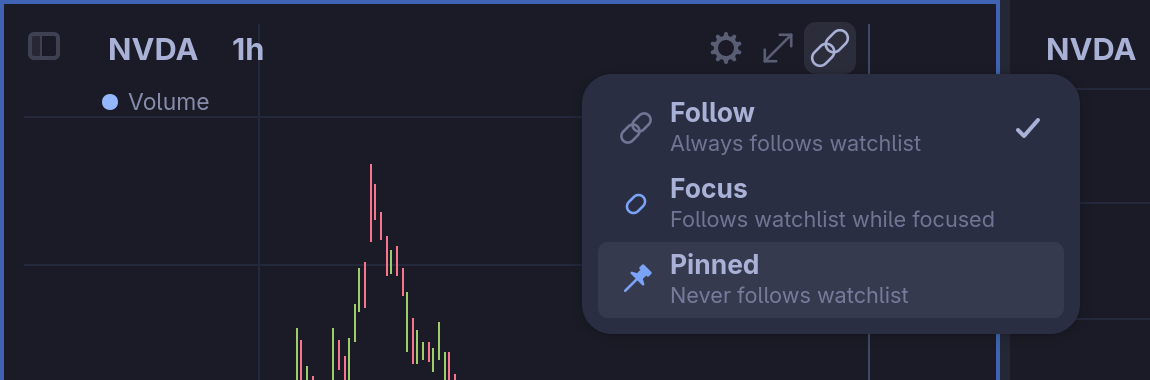
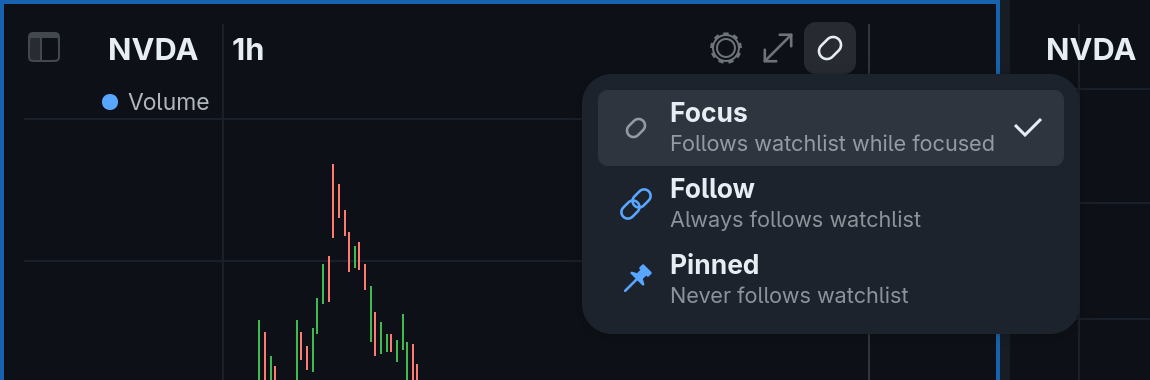
Start new charts on Focus, and offer it first (#91)
A chart now starts as Focus rather than Follow, so splitting a chart and
picking a symbol puts it on the chart in front of you and leaves the other
where it was. Focus comes first in the chain's menu, the chart menu and
the Ctrl+L cycle, and takes over the quiet look the default wears: one
dim link under the pointer, with Follow and Pinned in the accent.

Charts already saved keep the mode they have.

diff --git a/crates/omacharts-engine/src/link.rs b/crates/omacharts-engine/src/link.rs
@@ -1,11 +1,11 @@
 //! Link modes: what a chart does when a symbol is picked in the watchlist.
 //!
-//! The choice belongs on the chart, not on the list. Charts follow the list
-//! out of the box, because the usual reason to split is one symbol at several
-//! resolutions. A chart for comparing tickers has to be able to take the click
-//! only while it is focused, without taking following away from the rest, and
-//! a chart holding context (SPY beside a stock) has to be able to refuse the
-//! click outright.
+//! The choice belongs on the chart, not on the list. Charts take the list's
+//! click only while they are focused out of the box, so splitting a chart and
+//! picking a symbol puts it on the chart in front of you and leaves the other
+//! where it was. One symbol at several resolutions is a choice to make Follow,
+//! which moves those charts together on every click, and a chart holding
+//! context (SPY beside a stock) has to be able to refuse the click outright.
 //!
 //! So each chart has one of three modes, and every list drives the same
 //! charts: the Follow ones, plus the focused chart when it is a Focus chart.
@@ -22,10 +22,10 @@ use crate::theme::Theme;
 pub enum LinkMode {
     /// Takes the rail's click while it is the focused chart. A symbol typed
     /// on it moves only itself.
+    #[default]
     Focus,
     /// Takes every rail click, and a symbol typed on it moves every other
     /// Follow chart.
-    #[default]
     Follow,
     /// Takes nothing from the rail.
     Pinned,
@@ -33,7 +33,7 @@ pub enum LinkMode {
 
 /// Every mode, in the order a picker offers them and Ctrl+L walks them: the
 /// default first.
-pub const MODES: [LinkMode; 3] = [LinkMode::Follow, LinkMode::Focus, LinkMode::Pinned];
+pub const MODES: [LinkMode; 3] = [LinkMode::Focus, LinkMode::Follow, LinkMode::Pinned];
 
 impl LinkMode {
     /// What a chart written down with the nine link groups becomes.
@@ -70,8 +70,8 @@ impl LinkMode {
     /// across four charts.
     pub fn colour(self, theme: &Theme) -> Option<String> {
         match self {
-            LinkMode::Follow => None,
-            LinkMode::Focus | LinkMode::Pinned => Some(theme.ui.accent.clone()),
+            LinkMode::Focus => None,
+            LinkMode::Follow | LinkMode::Pinned => Some(theme.ui.accent.clone()),
         }
     }
 
@@ -183,7 +183,7 @@ mod tests {
         // recoverable in one click; refusing to parse would take the whole
         // layout down with it.
         for json in ["\"sideways\"", "3", "true", "null", "-1", "1.5"] {
-            assert_eq!(serde_json::from_str::<LinkMode>(json).unwrap(), LinkMode::Follow, "{json}");
+            assert_eq!(serde_json::from_str::<LinkMode>(json).unwrap(), LinkMode::Focus, "{json}");
         }
     }
 
@@ -195,9 +195,9 @@ mod tests {
     #[test]
     fn cycling_walks_all_three_and_comes_round_to_the_default() {
         for (from, next) in [
-            (LinkMode::Follow, LinkMode::Focus),
-            (LinkMode::Focus, LinkMode::Pinned),
-            (LinkMode::Pinned, LinkMode::Follow),
+            (LinkMode::Focus, LinkMode::Follow),
+            (LinkMode::Follow, LinkMode::Pinned),
+            (LinkMode::Pinned, LinkMode::Focus),
         ] {
             assert_eq!(from.cycled(false), next, "{from:?}");
             assert_eq!(next.cycled(true), from, "{next:?}");

diff --git a/src/ui/pane.rs b/src/ui/pane.rs
@@ -655,8 +655,8 @@ fn expand_icon(maximized: Rc<Cell<bool>>) -> gtk::DrawingArea {
 }
 
 /// A mode's icon for a row of the mode menu, in the colour the chart's button
-/// takes in that mode: the legend's own, dimmed, for Follow, and the accent for
-/// the other two. So the menu shows what the button will look like.
+/// takes in that mode: the legend's own, dimmed, for the default, Focus, and
+/// the accent for the other two. So the menu shows what the button will look like.
 ///
 /// Coloured from CSS rather than handed a hex, because the popover outlives
 /// any one theme and CSS is what follows a change of it.
@@ -666,8 +666,8 @@ pub(crate) fn menu_mode_icon(mode: LinkMode) -> gtk::DrawingArea {
         Rc::new(Cell::new(mode)),
     );
     area.add_css_class(match mode {
-        LinkMode::Follow => "dim-label",
-        LinkMode::Focus | LinkMode::Pinned => "link-mode-set",
+        LinkMode::Focus => "dim-label",
+        LinkMode::Follow | LinkMode::Pinned => "link-mode-set",
     });
     area
 }
@@ -786,15 +786,15 @@ fn rounded(cr: &gtk::cairo::Context, x: f64, y: f64, w: f64, h: f64, r: f64) {
     cr.close_path();
 }
 
-/// The legend stays out of the way, so a Follow chart's button is nearly
-/// invisible: it is the default, and four faint chains say nothing is going on.
-/// Focus and Pinned are not: a chart that moves only while focused, or never,
+/// The legend stays out of the way, so a Focus chart's button is nearly
+/// invisible: it is the default, and four faint links say nothing is going on.
+/// Follow and Pinned are not: a chart that moves on every click, or on none,
 /// is the state worth being able to see across four charts without looking.
 fn set_link_look(link: &gtk::MenuButton, mode: LinkMode) {
     link.set_tooltip_text(Some(&format!("{} — {}", mode.label(), mode.blurb())));
-    match mode {
-        LinkMode::Follow => link.add_css_class("quiet"),
-        _ => link.remove_css_class("quiet"),
+    match mode == LinkMode::default() {
+        true => link.add_css_class("quiet"),
+        false => link.remove_css_class("quiet"),
     }
 }
 

diff --git a/src/cli/exec.rs b/src/cli/exec.rs
@@ -5309,15 +5309,16 @@ mod tests {
     }
 
     /// A chartbook made from a terminal starts the way one made in the window
-    /// does: its chart on Follow, so picking in the rail moves it.
+    /// does: its chart on Focus, so picking in the rail moves it while it is
+    /// the chart in front of you, and a split beside it is not dragged along.
     #[test]
-    fn a_new_chartbooks_chart_starts_on_follow() {
+    fn a_new_chartbooks_chart_starts_on_focus() {
         let store = bare();
         run("chartbook create Macro --symbol SPY --switch", &store);
 
         let listed = run("chart list --book Macro --json", &store);
         let parsed: serde_json::Value = serde_json::from_str(&listed.out).unwrap();
-        assert_eq!(parsed["charts"][0]["link"], "follow", "{}", listed.out);
+        assert_eq!(parsed["charts"][0]["link"], "focus", "{}", listed.out);
     }
 
     #[test]

diff --git a/src/theming.rs b/src/theming.rs
@@ -422,9 +422,9 @@ pub fn stylesheet(theme: &Theme, scheme: &BarScheme) -> String {
 .legend-symbol:hover { background: alpha(currentColor, 0.12); }
 
 /* The legend sits over the drawing, and the drawing is the point. The gear,
-   and the link while the chart is in Follow (the default, so nothing to
+   and the link while the chart is in Focus (the default, so nothing to
    report), strike the maximize corner's bargain: not there until the pointer
-   is on the chart. A Focus or Pinned chart keeps its link showing, since
+   is on the chart. A Follow or Pinned chart keeps its link showing, since
    then the icon is telling you something. The link stays up while its menu is open,
    when the pointer has left the chart for the menu. */
 .legend-gear,

diff --git a/src/cli/charts.rs b/src/cli/charts.rs
@@ -363,8 +363,8 @@ pub fn new_pane(
             "colouring": defaults.colouring.key(),
             "session": defaults.session.key(),
             "show_grid": defaults.show_grid,
-            // Follow, which is where the window starts a new chartbook's
-            // chart: it takes every click in the rail.
+            // Focus, which is where the window starts a new chartbook's
+            // chart: it takes a click in the rail while it is focused.
             "link": LinkMode::default().key(),
             "shows_drawings": defaults.shows_drawings,
             "sends_drawings": defaults.sends_drawings,

diff --git a/src/cli/spec.rs b/src/cli/spec.rs
@@ -213,7 +213,7 @@ const KINDS: &[&str] = &[
 const ANCHORS: &[&str] = &["session", "week", "month", "quarter", "year"];
 const LINE_STYLES: &[&str] = &["solid", "dashed", "dotted"];
 const SWITCHES: &[&str] = &["on", "off"];
-const LINKS: &[&str] = &["follow", "focus", "pinned"];
+const LINKS: &[&str] = &["focus", "follow", "pinned"];
 const COLOURING: &[&str] = &["coloured", "red-up", "monochrome"];
 const SORT_COLUMNS: &[&str] = &["symbol", "last", "change", "change_pct", "none"];
 /// The kinds a drawing comes in, plus the one alias.

diff --git a/site/manual/watchlists.md b/site/manual/watchlists.md
@@ -170,13 +170,15 @@ From anywhere:
 ## Linking charts to the watchlist
 
 A link mode is a chart's setting for what a click in the watchlist does to
-it. Each chart has its own. Every chart starts as **Follow**.
+it. Each chart has its own. Every chart starts as **Focus**.
 
 <!-- regenerate:
 theme: tokyo-night
 window: 2560x1440 @2, bin/headless-window (HOME sandboxed)
 state:
   (the state of the first picture in Chartbooks, then)
+  omacharts chart set --chart pos:0 --link follow
+  omacharts chart set --chart pos:2 --link follow
   click 915 23                    # the 1h chart's chain
   click 857 140                   # Pinned
   omacharts chart set --chart pos:1 --symbol SPY
@@ -191,8 +193,8 @@ crop: none
 
 | Mode | A click in the watchlist | A symbol typed on the chart |
 |---|---|---|
-| **Follow** | Always moves it. The Follow charts all show one symbol. | Moves it and every other Follow chart. |
 | **Focus** | Moves it while it is the focused chart. | Moves it alone. |
+| **Follow** | Always moves it. The Follow charts all show one symbol. | Moves it and every other Follow chart. |
 | **Pinned** | Never moves it, focused or not. | Moves it alone. |
 
 **Follow** from the chain or the chart menu puts this chart's symbol on every
@@ -214,7 +216,7 @@ A click in a watchlist moves charts in its own chartbook only.
 ### Choosing a link mode
 
 The chain in a chart's top-right corner shows the mode. One link is Focus,
-two links are Follow and a pin is Pinned. Follow is drawn dim, Focus and
+two links are Follow and a pin is Pinned. Focus is drawn dim, Follow and
 Pinned in the theme's accent colour.
 
 <!-- regenerate:
@@ -228,16 +230,17 @@ state:
   omacharts chart focus pos:0
   move 415 24
   click 415 23                    # the 1h chart's chain (left chart, so the menu opens over the chart beside it, not the sidebar)
+  move 400 64                     # over the Focus row
 capture: bin/headless-window shot chain.png
 crop: 0,0,1150,380
 -->
-{% include figure.html src="/assets/manual/linking/chain-menu.png" alt="The chain's menu on the hourly chart: Follow, Always follows watchlist, ticked; Focus, Follows watchlist while focused; Pinned, Never follows watchlist" caption="The chain's menu, open on a Follow chart." %}
+{% include figure.html src="/assets/manual/linking/chain-menu.png" alt="The chain's menu on the hourly chart: Focus, Follows watchlist while focused, ticked; Follow, Always follows watchlist; Pinned, Never follows watchlist" caption="The chain's menu, open on a Focus chart." %}
 
 | Where | How |
 |---|---|
-| The chain | Click it for **Follow**, **Focus** and **Pinned**, the current one ticked. Clicking another chart's chain focuses that chart first. |
-| The chart menu | Right-click the chart › **Watchlist** › **Follow**, **Focus**, **Pinned** ([Charts](/manual/charts/)). |
-| <kbd>Ctrl</kbd> + <kbd>L</kbd> | Moves the focused chart to its next mode: Follow, Focus, Pinned and round to Follow. |
+| The chain | Click it for **Focus**, **Follow** and **Pinned**, the current one ticked. Clicking another chart's chain focuses that chart first. |
+| The chart menu | Right-click the chart › **Watchlist** › **Focus**, **Follow**, **Pinned** ([Charts](/manual/charts/)). |
+| <kbd>Ctrl</kbd> + <kbd>L</kbd> | Moves the focused chart to its next mode: Focus, Follow, Pinned and round to Focus. |
 | <kbd>Ctrl</kbd> + <kbd>Shift</kbd> + <kbd>L</kbd> | The same, the other way round. |
 
 The chain appears once there is a second chart. With one chart, Focus and

diff --git a/site/manual/hotkeys.md b/site/manual/hotkeys.md
@@ -91,7 +91,7 @@ From anywhere:
 | <kbd>Ctrl</kbd> + <kbd>M</kbd> | Gives the focused chart the whole window, or puts it back | [Layouts](/manual/layouts/) |
 | <kbd>Alt</kbd> + <kbd>←</kbd> <kbd>→</kbd> <kbd>↑</kbd> <kbd>↓</kbd> | Focuses the chart in that direction | [Layouts](/manual/layouts/) |
 | <kbd>Ctrl</kbd> + <kbd>Alt</kbd> + <kbd>Shift</kbd> + <kbd>←</kbd> <kbd>→</kbd> <kbd>↑</kbd> <kbd>↓</kbd> | Grows the focused chart in that direction, by moving the divider it sits against | [Layouts](/manual/layouts/) |
-| <kbd>Ctrl</kbd> + <kbd>L</kbd> / <kbd>Ctrl</kbd> + <kbd>Shift</kbd> + <kbd>L</kbd> | The focused chart's next or previous link mode: Follow, Focus, Pinned | [Watchlists](/manual/watchlists/#choosing-a-link-mode) |
+| <kbd>Ctrl</kbd> + <kbd>L</kbd> / <kbd>Ctrl</kbd> + <kbd>Shift</kbd> + <kbd>L</kbd> | The focused chart's next or previous link mode: Focus, Follow, Pinned | [Watchlists](/manual/watchlists/#choosing-a-link-mode) |
 | <kbd>Ctrl</kbd> + <kbd>O</kbd> | A screenshot of the focused chart, to the clipboard | [Screenshots](/manual/screenshots/) |
 
 ## The focused chart
@@ -213,7 +213,7 @@ On a chart:
 | Double-click an indicator's name in the legend | Its settings. The eye, gear and bin beside it hide it, open its settings, or remove it | [Indicators](/manual/indicators/) |
 | The gear, top-right | Chart settings | [Chart settings](/manual/chart-settings/) |
 | The corner arrows, top-right | Gives the chart the whole window, or puts it back | [Layouts](/manual/layouts/) |
-| The chain, top-right | The link mode: Follow, Focus, Pinned | [Watchlists](/manual/watchlists/#choosing-a-link-mode) |
+| The chain, top-right | The link mode: Focus, Follow, Pinned | [Watchlists](/manual/watchlists/#choosing-a-link-mode) |
 | An indicator strip's ×, and its chevrons | Removes the strip, or moves it up or down the stack | [Indicators](/manual/indicators/) |
 | Drag the edge of an indicator strip | Makes it taller or shorter | [Indicators](/manual/indicators/) |
 | Drag the divider between two charts | Resizes them | [Layouts](/manual/layouts/) |

diff --git a/doc/cli.md b/doc/cli.md
@@ -230,13 +230,13 @@ nothing of its own.
 
 Each chart has a link mode: what a click in the watchlist does to it.
 
-* **`follow`** (the default) takes every click. Follow charts show the same
-  instrument: a symbol typed on one moves the others, and a pointer on one draws
-  a crosshair on the rest. Split a chart, change the new one's resolution, and
-  both walk the watchlist together.
-* **`focus`** takes the click while it is the focused chart. Make a split's new
-  chart Focus and click a symbol, and it takes the symbol while the old one
-  keeps what it had.
+* **`focus`** (the default) takes the click while it is the focused chart.
+  Split a chart and click a symbol, and the chart in front of you takes it
+  while the other keeps what it had.
+* **`follow`** takes every click. Follow charts show the same instrument: a
+  symbol typed on one moves the others, and a pointer on one draws a crosshair
+  on the rest. Make a chart Follow, split it, change the new one's resolution,
+  and both walk the watchlist together.
 * **`pinned`** takes none, focused or not — for a context chart such as SPY
   beside a stock. A click that moves nothing, because the focused chart is
   pinned and nothing follows, lights up its pin.
@@ -250,7 +250,7 @@ omacharts chart list                # the last column is the mode
 The chain in a chart's top-right corner picks any of the three once there is a
 second chart to tell apart, and the chart menu has them under Watchlist. A lone
 chart shows its chain only while it is pinned. Ctrl+L moves the focused chart
-on to its next mode, round Follow, Focus and Pinned, and Ctrl+Shift+L back the
+on to its next mode, round Focus, Follow and Pinned, and Ctrl+Shift+L back the
 other way; arriving at Follow, it takes what the other Follow charts show rather
 than moving them to what it had. Following is within the open
 chartbook: a chartbook you come back to is as you left it.

diff --git a/site/manual/window.md b/site/manual/window.md
@@ -59,7 +59,7 @@ crop: 1060,0,1500,170
 |---|---|---|
 | Gear | While the pointer is on the chart | Opens **Chart settings** for that chart. See [Chart settings](/manual/chart-settings/). |
 | **Maximize** (two diagonal arrows) | While the pointer is on the chart and the chartbook has two charts or more | Gives the chart the whole window, or puts it back. The arrows point inward while it is maximised. See [Maximising a chart](/manual/layouts/#maximising-a-chart). |
-| Link button | When the chartbook has two charts or more, or always on a Pinned chart | Opens the chart's link modes. A chain on a Follow chart, only under the pointer; one link on a Focus chart and a pin on a Pinned chart, always shown and in the accent colour. See [Linking charts to the watchlist](/manual/watchlists/#linking-charts-to-the-watchlist). |
+| Link button | When the chartbook has two charts or more, or always on a Pinned chart | Opens the chart's link modes. One link on a Focus chart, only under the pointer; a chain on a Follow chart and a pin on a Pinned chart, always shown and in the accent colour. See [Linking charts to the watchlist](/manual/watchlists/#linking-charts-to-the-watchlist). |
 | Watchlist toggle | Always, in the window's corner | Shows or hides the sidebar, like <kbd>Ctrl</kbd> + <kbd>B</kbd>. The key also puts the keyboard in the sidebar, and gives it back to the chart when hiding it. Lit while the sidebar is out. |
 | Main menu | Always, in the window's corner | Opens the [main menu](#the-main-menu). <kbd>F10</kbd> opens it too. |
 | Drawing tools' toggle | Always, in the window's top-left corner | Shows or hides the tools, like <kbd>Ctrl</kbd> + <kbd>D</kbd>. |

diff --git a/agents/skills/omacharts/SKILL.md b/agents/skills/omacharts/SKILL.md
@@ -122,20 +122,20 @@ omacharts template indicator set Momentum rsi --period 21
 ```
 
 **Each chart has a link mode**, which is what a click in the watchlist does
-to it. `follow` (the default) takes every click, so a split shows one symbol at
-two resolutions that walk the watchlist together. `focus` takes the click only
-while it is the focused chart, for charts showing different symbols. `pinned`
-takes none — for context charts like SPY beside a stock. Following is within
-the open chartbook only.
+to it. `focus` (the default) takes the click only while it is the focused
+chart, for charts showing different symbols. `follow` takes every click, so
+charts showing one symbol at two resolutions walk the watchlist together.
+`pinned` takes none — for context charts like SPY beside a stock. Following is
+within the open chartbook only.
 
 **Do not make four charts showing four different symbols `follow`.** Follow
 charts show the *same* instrument, so the four above are made `focus`. Follow
 is for one symbol across several resolutions — a daily and an hourly that move
-together as you walk a watchlist — and it is what a new chart already is, so
-splitting copies the symbol and only the resolution needs setting:
+together as you walk a watchlist. Splitting copies the symbol and the mode, so
+make the chart Follow first and only the new one's resolution needs setting:
 
 ```
-omacharts chart set --chart pos:0 --symbol SPY --resolution 1D
+omacharts chart set --chart pos:0 --symbol SPY --resolution 1D --link follow
 omacharts chart split vertical
 omacharts chart set --chart pos:1 --resolution 1h
 ```

diff --git a/site/manual/cli.md b/site/manual/cli.md
@@ -393,7 +393,7 @@ omacharts: "3x" is not a resolution; try 5m, 1h, 1D, 1W, 1M or 1Y
 | `--grid on` or `off` | Draws the grid | [Gridlines](/manual/charts/#gridlines) |
 | `--auto-scale on` or `off` | Fits the price axis to the visible bars, or holds it still | [Scales](/manual/charts/#scales) |
 | `--log-scale on` or `off` | Logarithmic or linear price axis | [Logarithmic scale](/manual/charts/#logarithmic-scale) |
-| `--link MODE` | `follow`, `focus`, `pinned` | [Linking charts to the watchlist](/manual/watchlists/#linking-charts-to-the-watchlist) |
+| `--link MODE` | `focus`, `follow`, `pinned` | [Linking charts to the watchlist](/manual/watchlists/#linking-charts-to-the-watchlist) |
 | `--template T` | A chart template, or `none` | [Chart templates](/manual/chart-templates/) |
 | `--show-drawings on` or `off`, `--send-drawings on` or `off` | Whether the chart shows other charts' drawings, and whether it sends its own | [Drawings](/manual/drawings/) |
 | `--book BOOK` | Which chartbook, by name or `id:N`; the open one when not given | [Which chart a command acts on](#which-chart-a-command-acts-on) |
@@ -938,7 +938,7 @@ A chart's link mode says whether it follows the symbol picked in the
 watchlist. What each mode does is in [Linking charts to the
 watchlist](/manual/watchlists/#linking-charts-to-the-watchlist).
 
-`chart set --link MODE` takes `follow`, `focus` or `pinned`. `chart list`
+`chart set --link MODE` takes `focus`, `follow` or `pinned`. New charts are `focus`. `chart list`
 prints each chart's mode in its last column.
 
 ```
